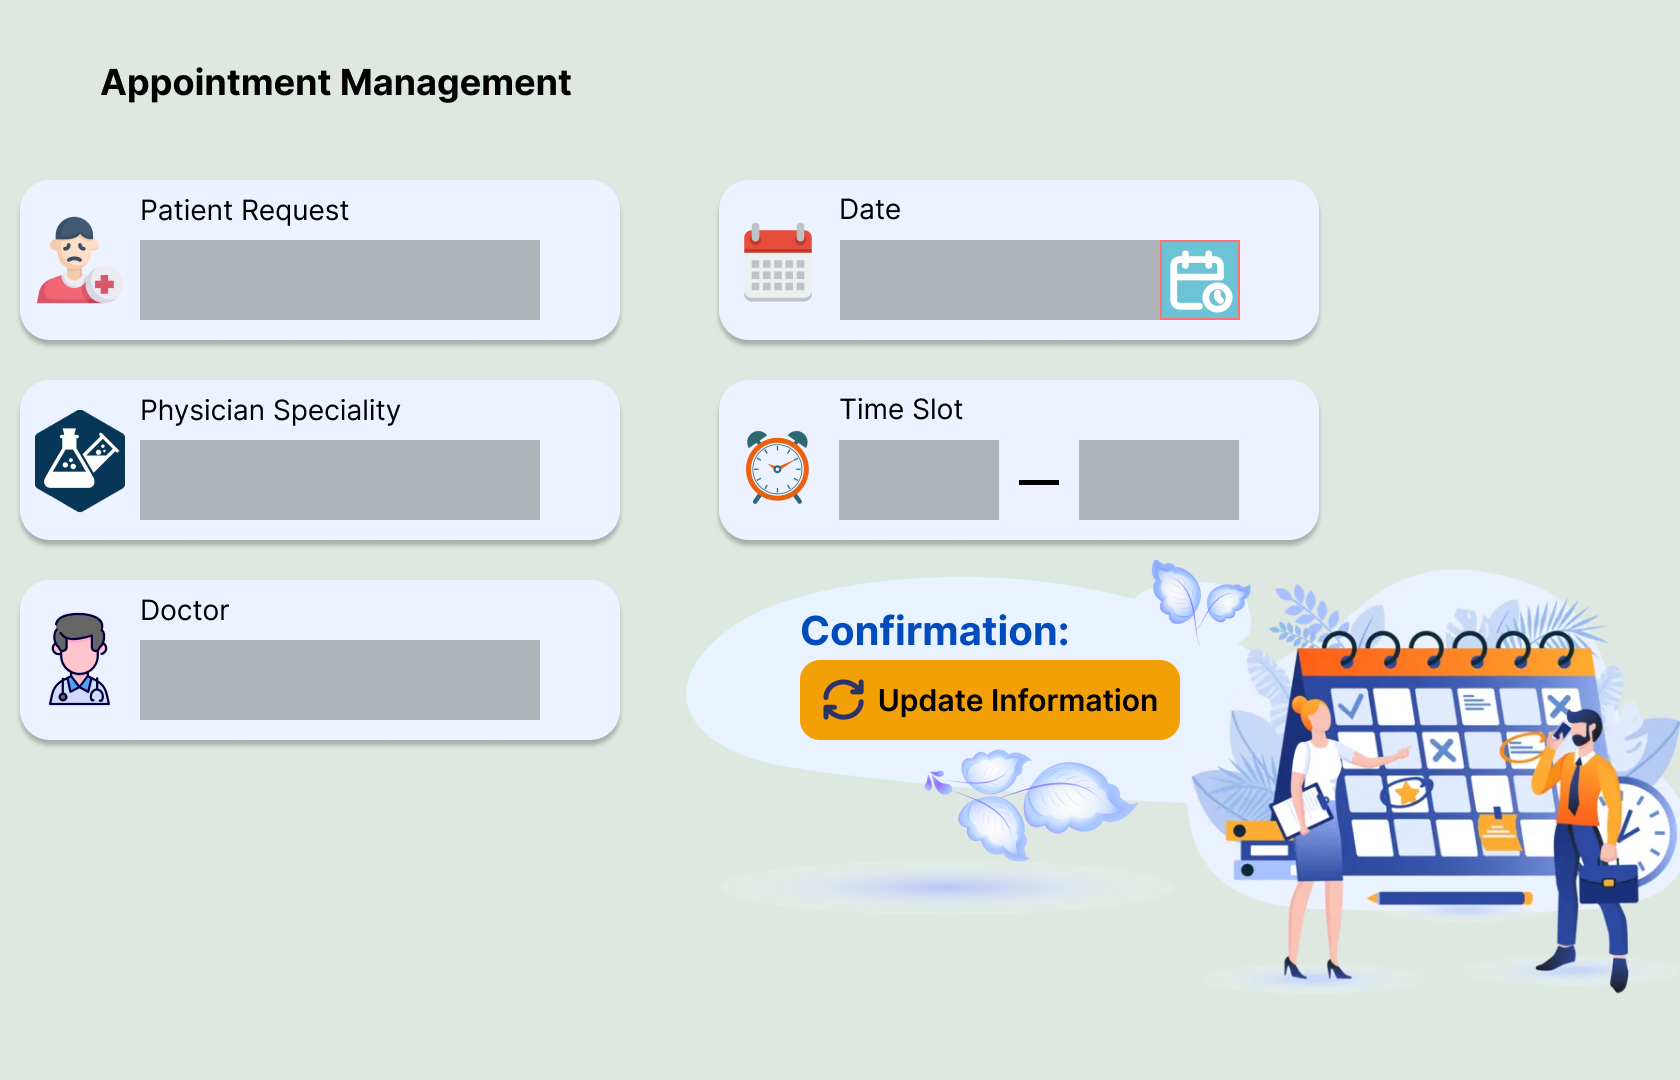
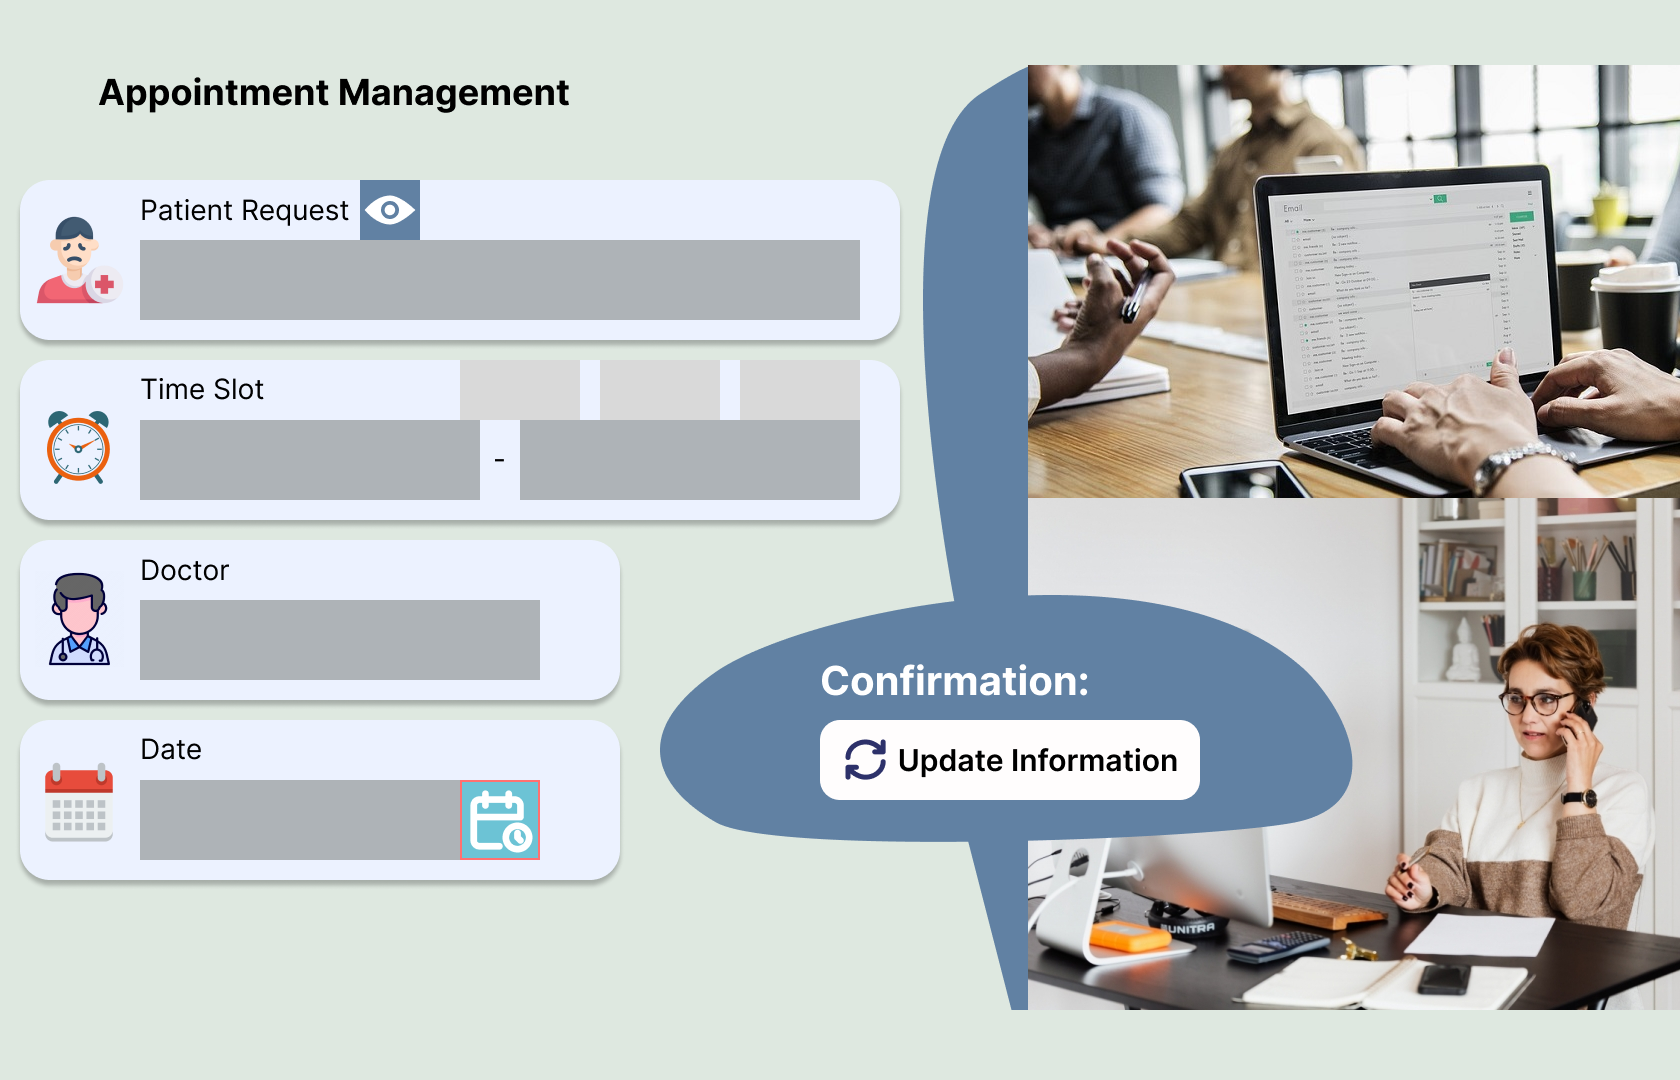
Update coding

diff --git a/views/appointments/adminManageAppointments.py b/views/appointments/adminManageAppointments.py
@@ -114,7 +114,7 @@ class AdminManageAppointments(Frame):
         )
         self.updateInfoBtn = self.controller.buttonCreator(
             ipath=d["appointmentButtons"][6],
-            x=800, y=660, classname="updateinfo", root=self.manageAppointmentsFrame,
+            x=820, y=720, classname="updateinfo", root=self.manageAppointmentsFrame,
             buttonFunction=lambda: [print('update')],
         )
 
@@ -505,29 +505,21 @@ class AdminManageAppointments(Frame):
             messagebox.showerror(
                 title="Aborting...", message="Invalid time interval value")
         self.create_app_load_time_menu()
-    
 
-    def loadViewPatientRequest(self, appReq: AppointmentRequest):
-        self.parent.patientRequests = MainPatientRequestsInterface(
-            controller=self.controller, parent=self.parent)
-        self.parent.patientRequests.loadRoleAssets(clinicAdmin=True)
-        self.parent.patientRequests.primarypanel.createManagePatientRequest(
-            req=appReq)
+    def loadAppointmentCreation2(self):
+        self.manageAppointmentsFrame.grid()
+        self.manageAppointmentsFrame.tkraise()
+        self.create_app_load_menubuttons2()
 
-    def loadAppointmentCreation(self):
-        self.createAppointmentsFrame.grid()
-        self.createAppointmentsFrame.tkraise()
-        self.create_app_load_menubuttons()
+    def create_app_load_menubuttons2(self):
+        self.create_app_load_request_menu2()
+        self.create_app_load_timeslots2()
+        self.create_app_load_doctor_menu2()
+        self.create_app_load_datepicker2()
 
-    def create_app_load_menubuttons(self):
-        self.create_app_load_request_menu()
-        self.create_app_load_timeslots()
-        self.create_app_load_doctor_menu()
-        self.create_app_load_datepicker()
-
-    def create_app_load_doctor_menu(self):
+    def create_app_load_doctor_menu2(self):
         prisma = self.prisma
-        R = self.createAppointmentsFrame
+        R = self.manageAppointmentsFrame
         self.doctors = prisma.doctor.find_many(
             where={
                 "clinicId": self.parent.primarypanel.clinic.id
@@ -544,7 +536,7 @@ class AdminManageAppointments(Frame):
                 f"{doctor.user.fullName} - {doctor.speciality}" for doctor in self.doctors],
             variable=self.currDoc,
             command=lambda: [
-                self.create_app_set_doctor(self.currDoc.get())
+                self.create_app_set_doctor2(self.currDoc.get())
             ],
             text="Select Doctor",
         )
@@ -553,9 +545,9 @@ class AdminManageAppointments(Frame):
         self.doctor_menu.configure(
             text=f"{self.doctor.user.fullName} - {self.doctor.speciality}"
         )
-        self.create_app_set_doctor(self.currDoc.get())
+        self.create_app_set_doctor2(self.currDoc.get())
 
-    def create_app_set_doctor(self, option: str):
+    def create_app_set_doctor2(self, option: str):
         self.doctor = list(
             filter(
                 lambda doctor: f"{doctor.user.fullName} - {doctor.speciality}" == option,
@@ -563,14 +555,14 @@ class AdminManageAppointments(Frame):
             )
         )[0]
     
-    def create_app_load_datepicker(self):
+    def create_app_load_datepicker2(self):
         entry, button = self.controller.entrywithDatePickerCreator(
-            x=140, y=780, width=320, height=80, root=self.createAppointmentsFrame, classname="create_app_datepicker",
+            x=140, y=780, width=320, height=80, root=self.manageAppointmentsFrame, classname="create_app_datepicker",
         )
 
-    def create_app_load_request_menu(self):
+    def create_app_load_request_menu2(self):
         prisma = self.prisma
-        R = self.createAppointmentsFrame
+        R = self.manageAppointmentsFrame
         self.patientReqs = prisma.appointmentrequest.find_many(
             where={
                 "clinicId": self.parent.primarypanel.clinic.id
@@ -602,9 +594,9 @@ class AdminManageAppointments(Frame):
         self.patient_requests.configure(
             text=f"{self.patientReq.patient.user.fullName} - I.D: {self.patientReq.id} - {self.patientReq.specialityWanted}"
         )
-        self.create_app_set_request(self.currReq.get())
+        self.create_app_set_request2(self.currReq.get())
 
-    def create_app_set_request(self, option: str):
+    def create_app_set_request2(self, option: str):
         self.patientReq = list(
             filter(
                 lambda req: f"{req.patient.user.fullName} - I.D: {req.id} - {req.specialityWanted}" == option,
@@ -612,8 +604,8 @@ class AdminManageAppointments(Frame):
             )
         )[0]
 
-    def create_app_load_timeslots(self):
-        R = self.createAppointmentsFrame
+    def create_app_load_timeslots2(self):
+        R = self.manageAppointmentsFrame
         self.time_slot = StringVar()
         self.custom_start_time = StringVar()
         self.custom_end_time = StringVar()
@@ -624,7 +616,7 @@ class AdminManageAppointments(Frame):
             ipath="assets/Appointments/Creation/SetTimeSlot.png",
             x=280, y=360, classname="create_app_set_time_interval_button", root=R,
             buttonFunction=lambda: [
-                self.create_app_set_time_interval()
+                self.create_app_set_time_interval2()
             ],
         )
         self.time_type = IntVar()
@@ -635,7 +627,7 @@ class AdminManageAppointments(Frame):
             text="Use Default Time", cursor="hand2",
             command=lambda: [
                 self.time_type.set(1),
-                self.create_app_load_time_menu()
+                self.create_app_load_time_menu2()
             ]
         )
         self.setUseDefaultTime.place(x=460, y=360, width=120, height=60)
@@ -645,7 +637,7 @@ class AdminManageAppointments(Frame):
             text="Use Custom Time", cursor="hand2",
             command=lambda: [
                 self.time_type.set(2),
-                self.create_app_load_time_menu()
+                self.create_app_load_time_menu2()
             ]
         )
         self.useCustomTime.place(x=600, y=360, width=120, height=60)
@@ -655,13 +647,13 @@ class AdminManageAppointments(Frame):
             text="Set Own Time", cursor="hand2",
             command=lambda: [
                 self.time_type.set(3),
-                self.create_app_load_time_menu()
+                self.create_app_load_time_menu2()
             ]
         )
         self.setOwnTime.place(x=740, y=360, width=120, height=60)
-        self.create_app_load_time_menu()
+        self.create_app_load_time_menu2()
 
-    def create_app_load_time_menu(self):
+    def create_app_load_time_menu2(self):
         R = self.createAppointmentsFrame
         DEFAULTTIME = "create_app_timeslot_menu"
         CUSTOMSTART = "create_app_custom_start_time"
@@ -689,7 +681,7 @@ class AdminManageAppointments(Frame):
             except:
                 pass
         elif self.time_type.get() == 2:
-            self.load_custom_start_time_end_time(
+            self.load_custom_start_time_end_time2(
                 R, CUSTOMSTART, CUSTOMEND, s_time, e_time)
             try:
                 self.controller.widgetsDict[f"{DEFAULTTIME}hostfr"].grid_remove(
@@ -719,7 +711,7 @@ class AdminManageAppointments(Frame):
                     if start_time >= end_time:
                         raise ValueError(
                             "Start time cannot be later than end time")
-                    self.load_custom_start_time_end_time(
+                    self.load_custom_start_time_end_time2(
                         R, CUSTOMSTART, CUSTOMEND, s_time, e_time)
                     self.create_app_custom_start_time.configure(
                         text=start_time.strftime("%I:%M%p")
@@ -753,7 +745,7 @@ class AdminManageAppointments(Frame):
                         parent=self.create_app_set_time_interval_button
                     )
 
-    def load_custom_start_time_end_time(self, R, CUSTOMSTART, CUSTOMEND, s_time, e_time):
+    def load_custom_start_time_end_time2(self, R, CUSTOMSTART, CUSTOMEND, s_time, e_time):
         self.create_app_custom_start_time = self.controller.timeMenuButtonCreator(
             x=140, y=420, width=340, height=80, root=R, classname=CUSTOMSTART,
             variable=self.custom_start_time,
@@ -777,7 +769,7 @@ class AdminManageAppointments(Frame):
             isTimeSlotFmt=False
         )
 
-    def create_app_set_time_interval(self):
+    def create_app_set_time_interval2(self):
         try:
             self.time_interval.set(int(Querybox.get_integer(
                 title="Set Time Interval",

diff --git a/views/dashboard/adminDashboard.py b/views/dashboard/adminDashboard.py
@@ -453,15 +453,14 @@ class ClinicAdminDashboard(Frame):
             self.createManageDoctor, req=req)
 
     def createManageDoctor(self, req: Doctor):
-        age = dt.datetime.now().year - req.user.dateOfBirth.year
-        nameGenderAge = f"Doctor: {req.user.fullName}\n{req.user.gender}, {age} years old"
+        doctorName = f"Doctor: {req.user.fullName}"
         doctorSpeciality = f"Speciality:{req.speciality}"
         educationHistory = f"EducationHistory:{req.educationHistory}"
         employmentHistory = f"EmploymentHistory:{req.employmentHistory}"
         self.controller.scrolledTextCreator(
             x=260, y=260, width=540, height=60, root=self.manageDoctorFrame, classname="manage_doctorname_gender_age",
             bg=WHITE, hasBorder=BLACK,
-            text=f"{nameGenderAge}", font=("Inter", 12), fg=BLACK,
+            text=f"{doctorName}", font=("Inter", 12), fg=BLACK,
             isDisabled=True, isJustified=True, justification="left",
             hasVbar=False
         )
